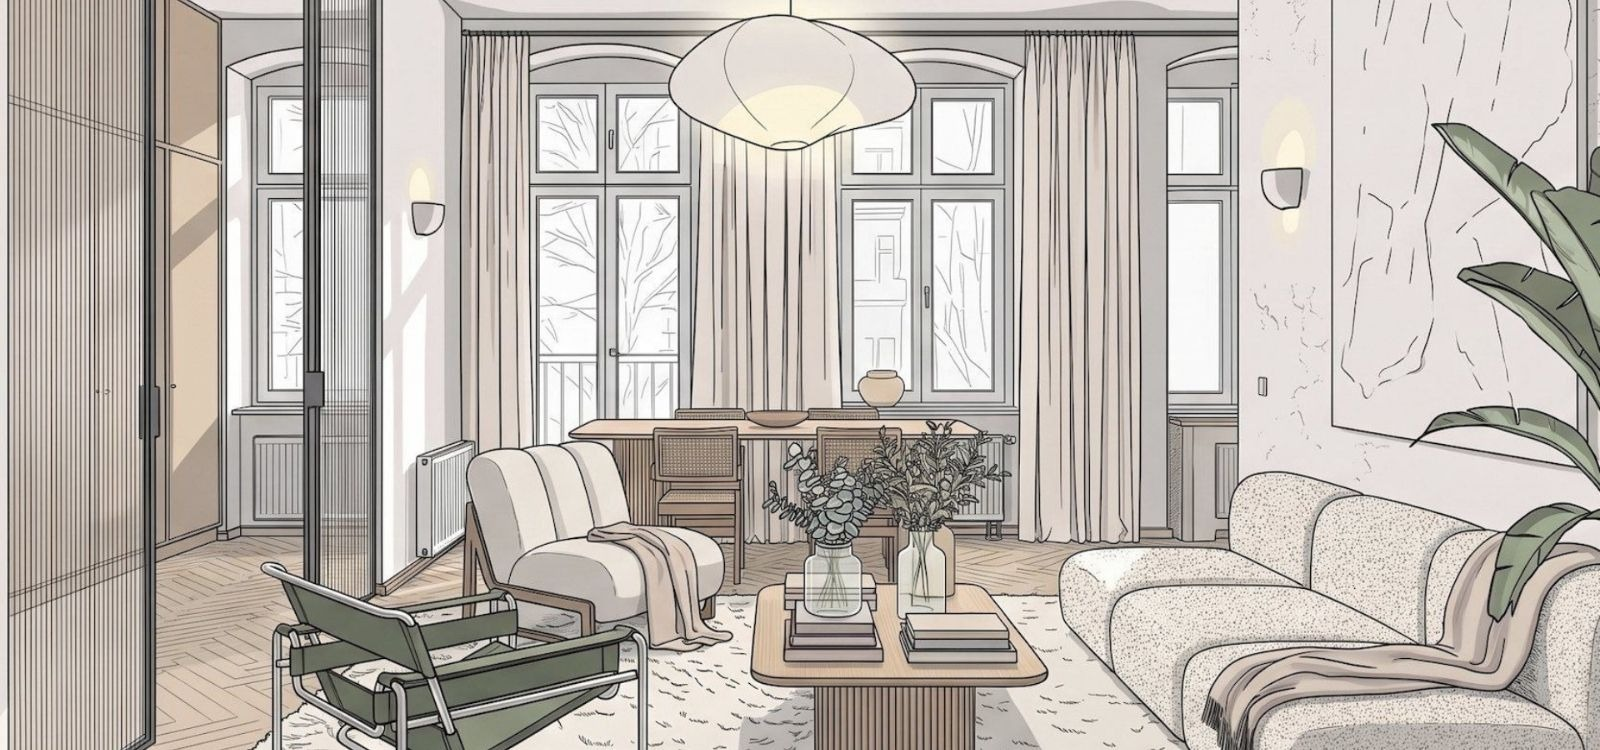
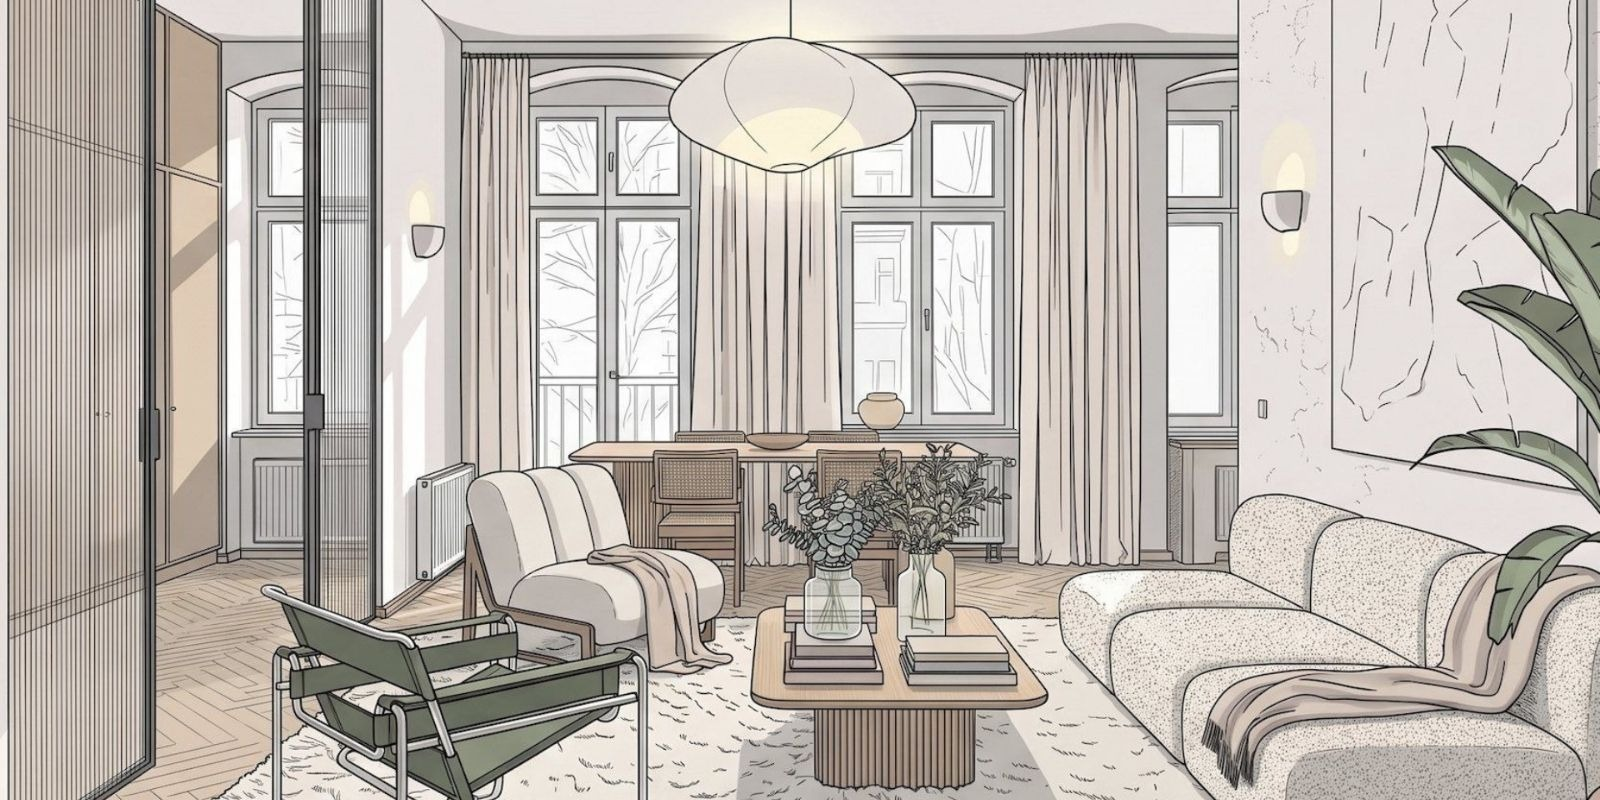
Remove hero emoji/buttons, replace hero image with correct-ratio panoramic crop

diff --git a/index.html b/index.html
@@ -56,17 +56,6 @@
       <img src="assets/hero/hero-salon-sketch.jpg" alt="Croquis éditorial du salon de l'Appartement Mitte, Berlin" />
     </div>
 
-    <div class="wrap hero-tagline-wrap" data-reveal>
-      <p class="hero-emoji" aria-hidden="true">🎨🏛💌🪩✏</p>
-    </div>
-
-    <div class="wrap hero-actions-wrap" data-reveal>
-      <div class="hero-actions">
-        <a href="#projets" class="btn btn--solid">Voir les projets</a>
-        <a href="#contact" class="link-arrow">Me contacter <span aria-hidden="true">→</span></a>
-      </div>
-    </div>
-
     <a href="#projets" class="scroll-cue" aria-label="Défiler vers le bas">
       <span class="scroll-cue-icon" aria-hidden="true">
         <svg viewBox="0 0 24 24" fill="none" stroke="currentColor" stroke-width="1.6" stroke-linecap="round" stroke-linejoin="round">

diff --git a/css/style.css b/css/style.css
@@ -318,7 +318,7 @@ h1, h2, h3, h4 {
      rounding discrepancy to worry about. */
   width: 100%;
   margin: 0 0 var(--space-lg);
-  aspect-ratio: 1600 / 750;
+  aspect-ratio: 1600 / 800;
   overflow: hidden;
   background: var(--color-cream-deep);
 }
@@ -754,7 +754,7 @@ body.lightbox-locked { overflow: hidden; }
 @media (max-width: 900px) {
   .nav-desktop, .nav-cta .btn { display: none; }
   .nav-toggle { display: flex; }
-  .hero-visual { aspect-ratio: 1600 / 750; }
+  .hero-visual { aspect-ratio: 1600 / 800; }
   .about-grid { grid-template-columns: 1fr; }
   .contact-grid { grid-template-columns: 1fr; }
   .timeline-item { grid-template-columns: 1fr; gap: 0.4rem; }
